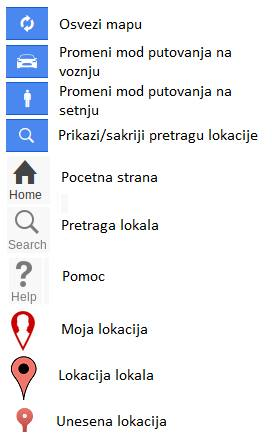
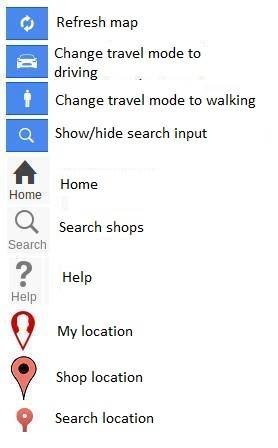
Arranged code

diff --git a/www/templates/help.html b/www/templates/help.html
@@ -6,46 +6,9 @@
 
     <div class="card">
       <div class="item item-text-wrap">
-      	 <!-- <div>
-         	<img src="img/my-location.png" alt="Moja lokacija" height="42" width="42">
-          	- Trenutna lokacija na mapi
-       	 </div> -->
-       	 <!-- <div class="icon ion-loop"> - Refresh map</div> -->
-        
          <p>
-            Shop Tracker je aplikacija napravljena kako bi olaksala pronalazenje odredjenih lokala ( Prodavnica garderobe, Fast Food-ova , Knjizara,... ). 
+            “ShopTracker” is a mobile application, developed in HTML,CSS,JavaScript supported by Google Maps API, which search shops and finds the best path to a shop from your location. Shops are located in Belgrade, Serbia.
           </p>
-          <p>
-              Nakon pokretanja aplikacije, dobicete meni sa grupama lokala(prodavnica). Klikom na jednu od
-            ponudjenih grup, dobicete detaljne informacije o lokalima(pordavnicama) iz zeljene grupe.
-          </p>
-          <p>
-            U ovome meniju imate dve opcije:
-          </p>
-          <p>
-            1. Mozete da ucitate sve lokale na mapu klikom na dugme "Ucitaj sve na mapu"
-          </p>
-          <p>
-            2. Ili da ucitate pojedinacni lokan na mapu likom na dugme "Map", koje se nalazi u kartici
-                svakog lokala
-          </p>
-          <p>
-              Nako izbora jedne od mogucih opcija, ucitace se mapa. Aplikacija ce pokusati da vas locira,
-            ukoliko lociranje bude uspesno, na mapi ce se prikazati vasa trenutna lokacija i lokali 
-            koje ste izabrali. Opcija da sami unesete svoju lokaciju je uvek dostupna.
-          </p>
-          <p>
-              Ukoliko lociranje ne bude uspesno, rucno mozete da uneste svoju lokaciju, u boksu
-            predidjenom za to.
-          </p>
-          <p>
-              Kada ste izabrali svoju lokaciju, klikom na marker lokala, dobicete najbolju putanju od vase
-            lokacije do izabranog lokala.
-            Mozete da birate izmedju dva moda putovanja:
-              <p>-Voznja</p>
-              <p>-Pesacenje</p>
-          </p>
-       
     </div>
     </div>
   </ion-content>

diff --git a/www/templates/shops.html b/www/templates/shops.html
@@ -1,20 +1,20 @@
 <ion-view title="{{shop.name}}">
   <ion-content class="has-header padding">
   	<button class="button button-full button-calm" ng-click="showMapAll()">
-  		Ucitaj sve na mapu
+  		Load all on map
 	</button>
    	<div class="card" ng-repeat="shop in shops | orderBy:name">
   		<div class="item item-divider">
     		{{shop.name}} {{shop.type}}  
     		<div class="button-card">
 	    		<button class="button button-small button-assertive" ng-click="showMapOne(shop.lat,shop.lang)" >
-	  				Mapa
+	  				Map
 				</button>
 			</div>
   		</div>
   		<div class="item item-text-wrap">
-    		<div>Adresa: {{shop.address}}</div>
-    		<div>Radno vreme: {{shop.time}}</div>
+    		<div>Addres: {{shop.address}}</div>
+    		<div>Work time: {{shop.time}}</div>
     		<div>Tel: {{shop.tel}}</div>
   		</div>
 	</div>

diff --git a/www/js/directives/google-map.js b/www/js/directives/google-map.js
@@ -41,7 +41,7 @@ angular.module('starter')
       SearchFunc();
       if(data.succeed == 1){
         var input = document.getElementById('pac-input');
-        input.placeholder='Changer location eg. \'Trg Republike, Belgrade\'';
+        input.placeholder='Change location eg. \'Trg Republike, Belgrade\'';
         myPosition =  new google.maps.LatLng(data.latitude, data.longitude);
         new google.maps.Marker({
           position: myPosition,

diff --git a/www/templates/map.html b/www/templates/map.html
@@ -8,4 +8,4 @@
 	</div>
 </div>
 <div class="map" google-map></div>
-<input id="pac-input" class="controls" type="text" ng-show="show" placeholder="Nije moguce lociranje, unesite lokaciju...">
+<input id="pac-input" class="controls" type="text" ng-show="show" placeholder="Geolocation failed, search new location eg. \'Trg Republike, Belgrade\'">
